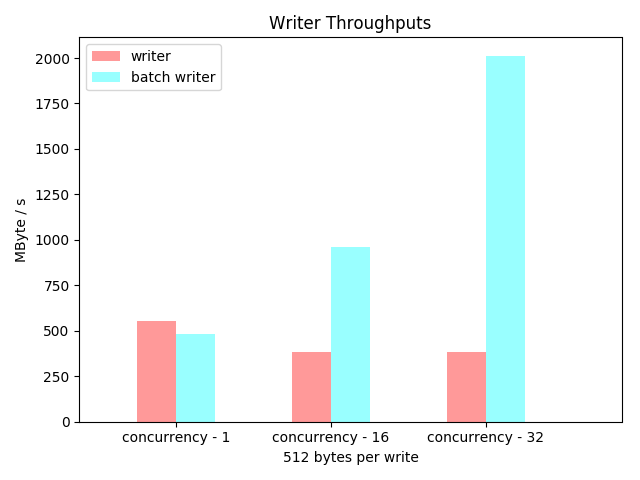
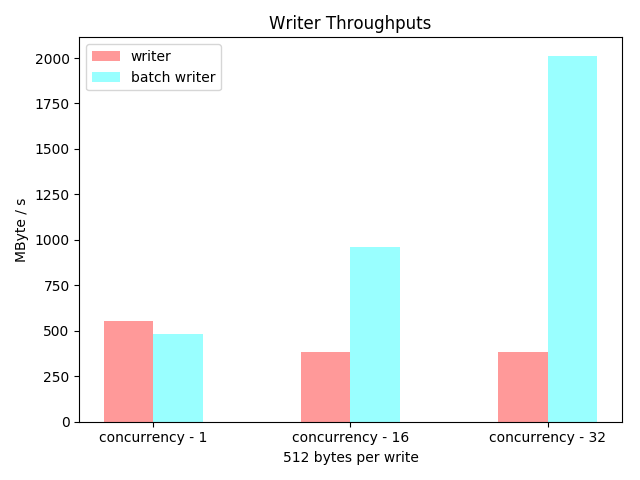
update img

Changed region(s): [[0.4375, 0.0938, 0.9375, 0.9375], [0.1562, 0.6562, 0.3438, 0.9375]]

diff --git a/README.md b/README.md
@@ -13,7 +13,7 @@ Package writer implements batch writing for an io.Writer object with the concurr
 
 ##### Write Throughputs
 
-<img src="https://raw.githubusercontent.com/hslam/writer/master/write-throughputs.png"  alt="write-throughputs" align=center>
+<img src="https://raw.githubusercontent.com/hslam/writer/master/write-throughputs.png" width = "480" height = "360" alt="write-throughputs" align=center>
 
 ## Get started
 
